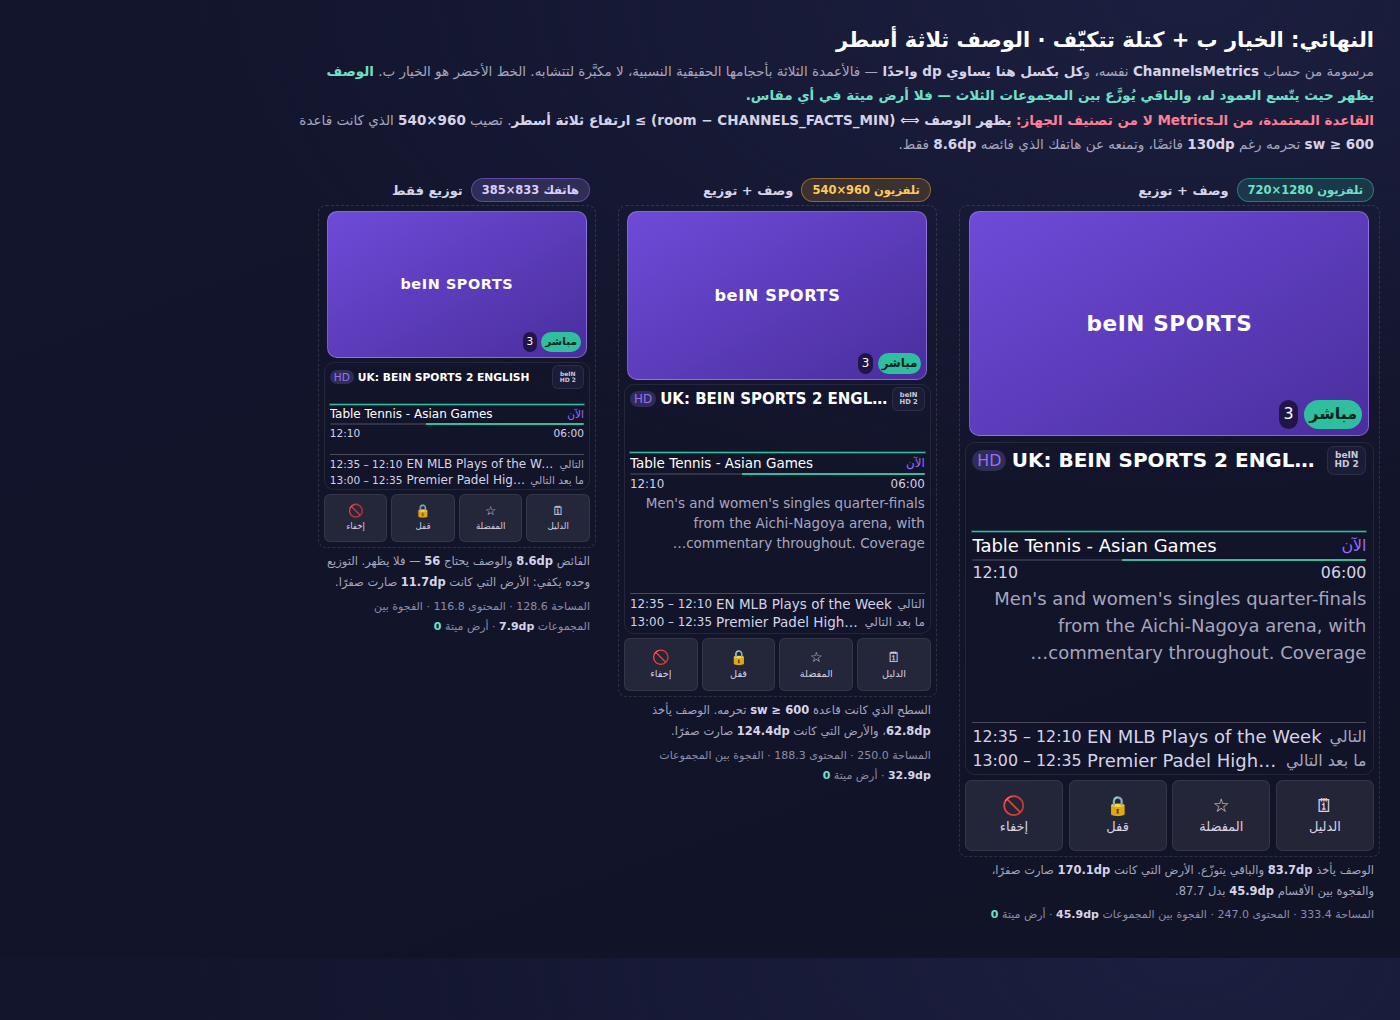
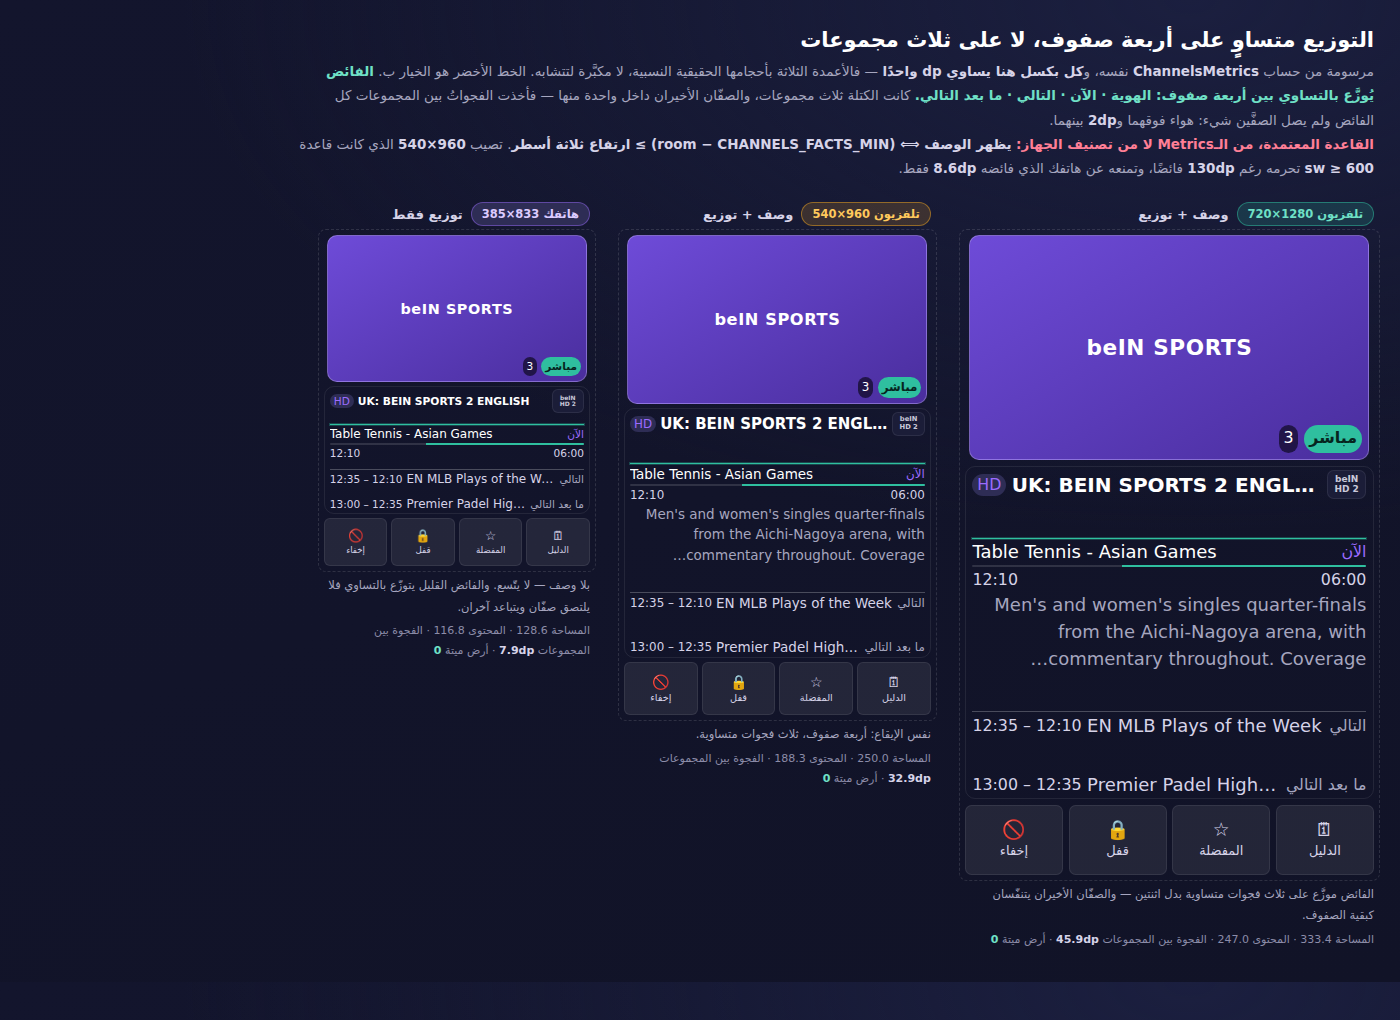
fix(channels): the distribution had an exception, and it was the last two rows
The owner's device showed what the arithmetic had hidden: air above what is
next, and the two coming programmes glued together underneath it.

The cause is one grouping. The block's children were three — who, what is on,
what is coming — and the last of those held *two* rows inside it, spaced by
`badgePadV`. `SpaceBetween` distributes the column's spare height between a
column's children, so all of it went to the two gaps between groups and none of
it reached inside the third: at 2dp apart the last pair read as one clotted
block under a finger's width of nothing. Three sections breathing while two rows
suffocate inside the last of them is not an even distribution, it is an even
distribution with an exception.

So the pair is separated. The block's children are now the four things a reader
actually scans — the channel, what is on, what is next, what follows that — and
the spare height is set between each of them equally. The rule stays with the
row it opens: a hairline loose in a column reads as floating rather than as a
boundary, which is the whole reason these were grouped in the first place.

Nothing else moves. The seam before NOW, the synopsis and the rule that decides
it, the room the block takes, the picture at 400×225 and its 16:9 are all as
they were; this changes which gaps the same spare height lands in.

Claude-Session: https://claude.ai/code/session_011AJmBREqNiH8exQNKLcMCr

diff --git a/design/mockups/channels-facts-adaptive.html b/design/mockups/channels-facts-adaptive.html
@@ -65,11 +65,13 @@
   .btn .g{font-size:1.45em;line-height:1}
 </style></head><body>
 
-<h1>النهائي: الخيار ب + كتلة تتكيّف · الوصف ثلاثة أسطر</h1>
+<h1>التوزيع متساوٍ على أربعة صفوف، لا على ثلاث مجموعات</h1>
 <p class="lede">
   مرسومة من حساب <b>ChannelsMetrics</b> نفسه، و<b>كل بكسل هنا يساوي dp واحدًا</b> — فالأعمدة الثلاثة
   بأحجامها الحقيقية النسبية، لا مكبَّرة لتتشابه. الخط الأخضر هو الخيار ب.
-  <em>الوصف يظهر حيث يتّسع العمود له، والباقي يُوزَّع بين المجموعات الثلاث — فلا أرض ميتة في أي مقاس.</em>
+  <em>الفائض يُوزَّع بالتساوي بين أربعة صفوف: الهوية · الآن · التالي · ما بعد التالي.</em>
+  كانت الكتلة ثلاث مجموعات، والصفّان الأخيران داخل واحدة منها — فأخذت الفجواتُ بين المجموعات كل الفائض
+  ولم يصل الصفَّين شيء: هواء فوقهما و<b>2dp</b> بينهما.
   <br>
   <u>القاعدة المعتمدة، من الـMetrics لا من تصنيف الجهاز:</u>
   <b>يظهر الوصف ⟺ (room − CHANNELS_FACTS_MIN) ≥ ارتفاع ثلاثة أسطر</b>.
@@ -112,11 +114,11 @@
             <span class="label soon" style="font-size:15.84px">التالي</span>
             <span class="title soon" style="font-size:18.00px">EN MLB Plays of the Week</span>
             <span class="clock" style="font-size:15.84px">12:10 – 12:35</span></div>
-          <div class="line" style="gap:5.47px">
-            <span class="label soon" style="font-size:15.84px">ما بعد التالي</span>
-            <span class="title soon" style="font-size:18.00px">Premier Padel Highlights</span>
-            <span class="clock" style="font-size:15.84px">12:35 – 13:00</span></div>
         </div>
+        <div class="line" style="gap:5.47px">
+          <span class="label soon" style="font-size:15.84px">ما بعد التالي</span>
+          <span class="title soon" style="font-size:18.00px">Premier Padel Highlights</span>
+          <span class="clock" style="font-size:15.84px">12:35 – 13:00</span></div>
       </div>
       <div class="strip" style="height:70.67px;gap:5.47px">
         <div class="btn" style="border-radius:6.67px;font-size:12.96px"><span class="g">🗓</span>الدليل</div>
@@ -125,7 +127,7 @@
         <div class="btn" style="border-radius:6.67px;font-size:12.96px"><span class="g">🚫</span>إخفاء</div>
       </div>
     </div>
-    <p class="note">الوصف يأخذ <b>83.7dp</b> والباقي يتوزّع. الأرض التي كانت <b>170.1dp</b> صارت صفرًا، والفجوة بين الأقسام <b>45.9dp</b> بدل 87.7.
+    <p class="note">الفائض موزَّع على ثلاث فجوات متساوية بدل اثنتين — والصفّان الأخيران يتنفّسان كبقية الصفوف.
       <br><span class="fig">المساحة 333.4 · المحتوى 247.0 · الفجوة بين المجموعات <b>45.9dp</b> · أرض ميتة <b class="zero">0</b></span></p>
   </div>
   <div class="case" style="width:306.87px">
@@ -162,11 +164,11 @@
             <span class="label soon" style="font-size:11.88px">التالي</span>
             <span class="title soon" style="font-size:13.50px">EN MLB Plays of the Week</span>
             <span class="clock" style="font-size:11.88px">12:10 – 12:35</span></div>
-          <div class="line" style="gap:4.10px">
-            <span class="label soon" style="font-size:11.88px">ما بعد التالي</span>
-            <span class="title soon" style="font-size:13.50px">Premier Padel Highlights</span>
-            <span class="clock" style="font-size:11.88px">12:35 – 13:00</span></div>
         </div>
+        <div class="line" style="gap:4.10px">
+          <span class="label soon" style="font-size:11.88px">ما بعد التالي</span>
+          <span class="title soon" style="font-size:13.50px">Premier Padel Highlights</span>
+          <span class="clock" style="font-size:11.88px">12:35 – 13:00</span></div>
       </div>
       <div class="strip" style="height:53.00px;gap:4.10px">
         <div class="btn" style="border-radius:6.00px;font-size:9.72px"><span class="g">🗓</span>الدليل</div>
@@ -175,7 +177,7 @@
         <div class="btn" style="border-radius:6.00px;font-size:9.72px"><span class="g">🚫</span>إخفاء</div>
       </div>
     </div>
-    <p class="note">السطح الذي كانت قاعدة <b>sw ≥ 600</b> تحرمه. الوصف يأخذ <b>62.8dp</b>، والأرض التي كانت <b>124.4dp</b> صارت صفرًا.
+    <p class="note">نفس الإيقاع: أربعة صفوف، ثلاث فجوات متساوية.
       <br><span class="fig">المساحة 250.0 · المحتوى 188.3 · الفجوة بين المجموعات <b>32.9dp</b> · أرض ميتة <b class="zero">0</b></span></p>
   </div>
   <div class="case" style="width:266.28px">
@@ -212,11 +214,11 @@
             <span class="label soon" style="font-size:10.56px">التالي</span>
             <span class="title soon" style="font-size:12.00px">EN MLB Plays of the Week</span>
             <span class="clock" style="font-size:10.56px">12:10 – 12:35</span></div>
-          <div class="line" style="gap:4.00px">
-            <span class="label soon" style="font-size:10.56px">ما بعد التالي</span>
-            <span class="title soon" style="font-size:12.00px">Premier Padel Highlights</span>
-            <span class="clock" style="font-size:10.56px">12:35 – 13:00</span></div>
         </div>
+        <div class="line" style="gap:4.00px">
+          <span class="label soon" style="font-size:10.56px">ما بعد التالي</span>
+          <span class="title soon" style="font-size:12.00px">Premier Padel Highlights</span>
+          <span class="clock" style="font-size:10.56px">12:35 – 13:00</span></div>
       </div>
       <div class="strip" style="height:48.00px;gap:4.00px">
         <div class="btn" style="border-radius:6.00px;font-size:8.64px"><span class="g">🗓</span>الدليل</div>
@@ -225,7 +227,7 @@
         <div class="btn" style="border-radius:6.00px;font-size:8.64px"><span class="g">🚫</span>إخفاء</div>
       </div>
     </div>
-    <p class="note">الفائض <b>8.6dp</b> والوصف يحتاج <b>56</b> — فلا يظهر. التوزيع وحده يكفي: الأرض التي كانت <b>11.7dp</b> صارت صفرًا.
+    <p class="note">بلا وصف — لا يتّسع. والفائض القليل يتوزّع بالتساوي فلا يلتصق صفّان ويتباعد آخران.
       <br><span class="fig">المساحة 128.6 · المحتوى 116.8 · الفجوة بين المجموعات <b>7.9dp</b> · أرض ميتة <b class="zero">0</b></span></p>
   </div>
 </div></body></html>

diff --git a/feature/home/src/main/java/com/castivio/feature/home/ChannelsScreen.kt b/feature/home/src/main/java/com/castivio/feature/home/ChannelsScreen.kt
@@ -1721,23 +1721,32 @@ private fun ChannelFacts(
 
         // ----------------------------------------------- and the two that follow it
         //
-        // One child, and for a reason with more at stake than the grouping above: the
-        // hairline is a boundary *belonging to* what comes after it, and loose in the
-        // column it would read as a rule floating in the middle of the panel.
+        // **Two children, not one, and that is the whole of a defect this had on a
+        // device.** They were one group, so `SpaceBetween` gave the column's spare height
+        // to the three gaps *between* groups and none of it to the gap inside this one:
+        // what is on sat a finger's width from what is next, and the two coming
+        // programmes were glued together 2dp apart. Three sections breathing and two rows
+        // suffocating inside the last of them is not a distribution, it is a distribution
+        // with an exception.
         //
-        // Both rows come out of `shown.schedule` — the same ordered window the guide page
+        // Separated, the column's children are the four things a reader actually scans —
+        // who, what is on, what is next, what follows that — and `SpaceBetween` sets the
+        // same air between each of them. The rule stays with the row it opens, because a
+        // hairline loose in a column reads as floating rather than as a boundary.
+        //
+        // Both rows come out of `shown.schedule` -- the same ordered window the guide page
         // reads, already on the device. Nothing is fetched to draw the second one.
         next?.let { programme ->
             Column(
                 Modifier.padding(top = m.badgePadV),
                 verticalArrangement = Arrangement.spacedBy(m.badgePadV),
             ) {
-                // One rule for both rows, not one each: they are the same category of
-                // thing — the future — and ruling between them would say they are not.
+                // One rule for the pair, not one each: they are the same category of thing
+                // -- the future -- and ruling between them would say they are not.
                 //
                 // `glassBorder` rather than the `glassBorderSoft` this drew before. Soft is
                 // the pale blue-grey at 10%, which over this ground is about seven steps of
-                // lightness — enough for a container's edge, where the shape does the work,
+                // lightness -- enough for a container's edge, where the shape does the work,
                 // and not enough for a 1dp line that has to be *found* on a handset held at
                 // arm's length. At 20% it is about fifteen, and it reads. Both rules take
                 // it, because a seam that is stronger than its twin stops being the same
@@ -1748,18 +1757,20 @@ private fun ChannelFacts(
                     programme = programme,
                     m = m,
                 )
-                // Absent rather than reserved: a channel whose guide window ends after the
-                // next programme draws two rows and the panel is simply shorter. An empty
-                // row held open for something that does not exist is the defect this
-                // block's whole shape exists to avoid.
-                after?.let {
-                    ComingLine(
-                        label = stringResource(R.string.channels_guide_then),
-                        programme = it,
-                        m = m,
-                    )
-                }
             }
+        }
+
+        // Absent rather than reserved: a channel whose guide window ends after the next
+        // programme draws one coming row and the panel is simply shorter. An empty row
+        // held open for something that does not exist is the defect this block's whole
+        // shape exists to avoid.
+        after?.let {
+            ComingLine(
+                label = stringResource(R.string.channels_guide_then),
+                programme = it,
+                m = m,
+                modifier = Modifier.padding(top = m.badgePadV),
+            )
         }
     }
 }
